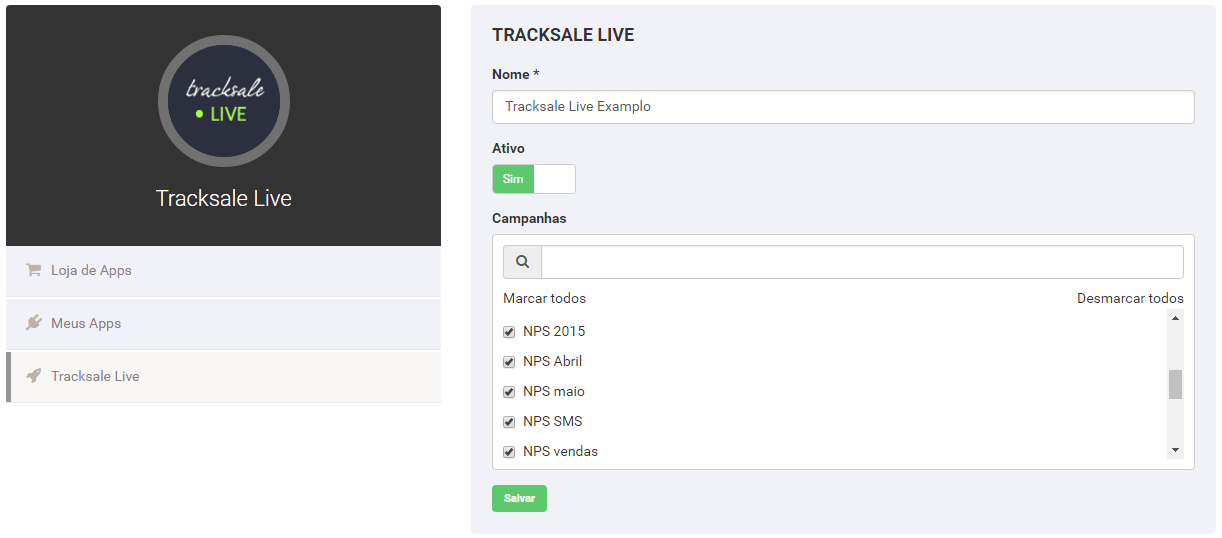
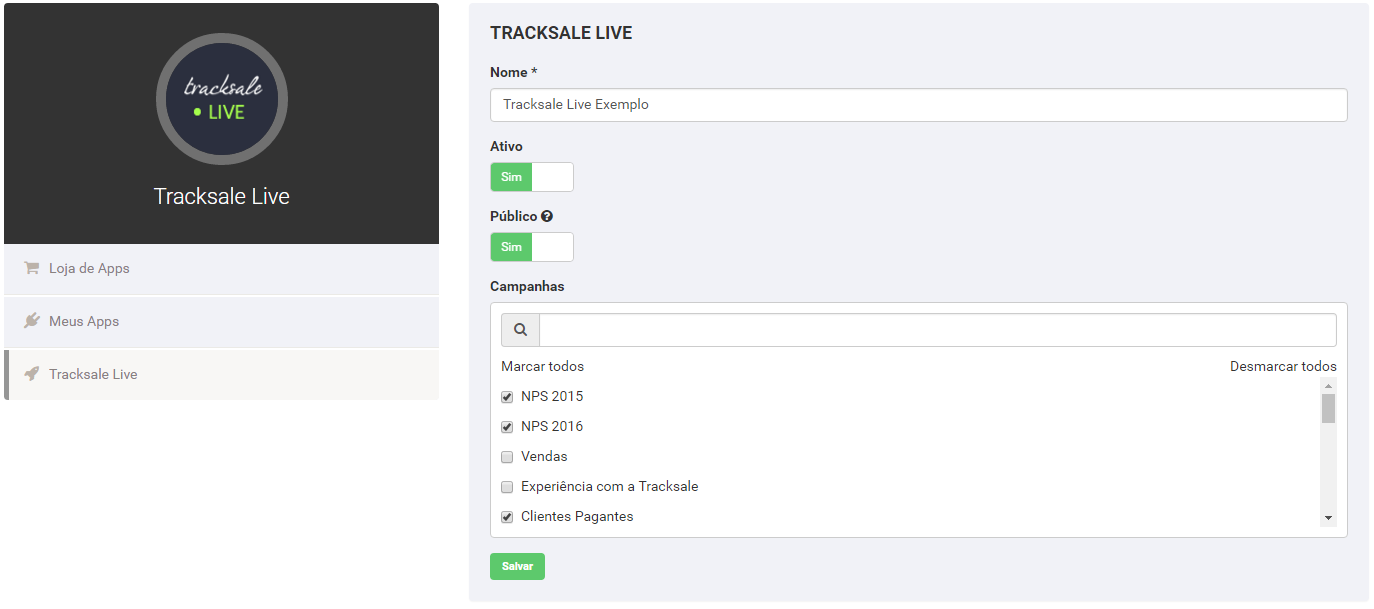
Tracksale Live public/private

diff --git a/index.html b/index.html
@@ -459,7 +459,10 @@
                             </div>
                         </li>
                         <li>
-                            Na tela de criação de API RESTfull, preencha todos os campos.
+                            Na tela de criação do Tracksale Live, preencha todos os campos.
+                            <br />
+                            <br />
+                            <span class="text-color">Atenção:</span> apenas Tracksale Live públicos podem ser utilizados como API.
                             <div class="div-img">
                                 <img src="images/live_create.png" class="img-responsive">
                             </div>
